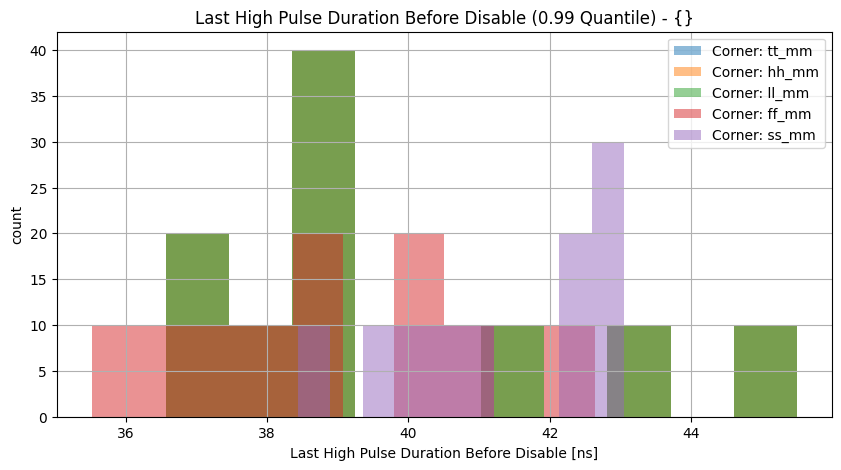
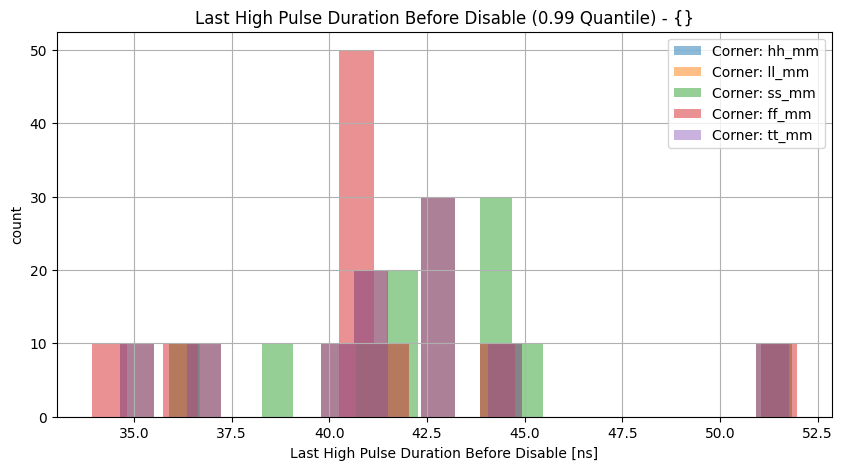
Jenkins update

diff --git a/riosc/riosc/Readme.md b/riosc/riosc/Readme.md
@@ -1,4 +1,4 @@
-24.11.2022, 20:10:37
+24.11.2022, 21:41:03
 
 # Ring Oscillator
 
@@ -32,9 +32,9 @@ LVS-state: Netlists match uniquely.<br>
 
 | Parameter | Min (Spec. / Sim.) |      | Max (Sim. / Spec.) | Unit | Checks (total/pass/fail/NaN) | Comment |
 | :-------- | -----------------: | :--: | :----------------- | :--- | :--------------------------- | ------- |
-| High Duration | 10.0 / 35.524 | <svg height="20" width="150"><polyline points="3.0,3,3.0,17,147.0,17,147.0,3" style="fill:none;stroke:gray;stroke-width:1" /><polyline points="75.0,10.0,75.0,17" style="fill:none;stroke:gray;stroke-width:1" /><polyline points="43.8384,10.0,59.793600000000005,10.0" style="stroke:green;stroke-width:2" /><circle cx="43.8384" cy="10.0" r="3" style="fill:green;stroke:green;stroke-width:0" /><circle cx="59.793600000000005" cy="10.0" r="3" style="fill:green;stroke:green;stroke-width:0" /></svg> | 45.496 / 100.0 | ns | 500/100.0%/0.0%/0.0% | Last period before oscillator disable |
-| Period Duration | 20.0 / 74.468 | <svg height="20" width="150"><polyline points="3.0,3,3.0,17,147.0,17,147.0,3" style="fill:none;stroke:gray;stroke-width:1" /><polyline points="75.0,10.0,75.0,17" style="fill:none;stroke:gray;stroke-width:1" /><polyline points="46.57432,10.0,61.828632000000006,10.0" style="stroke:green;stroke-width:2" /><circle cx="46.57432" cy="10.0" r="3" style="fill:green;stroke:green;stroke-width:0" /><circle cx="61.828632000000006" cy="10.0" r="3" style="fill:green;stroke:green;stroke-width:0" /></svg> | 93.536 / 200.0 | ns | 500/100.0%/0.0%/0.0% | First period after oscillator enable |
-| Duty-Cycle | 40 / 46.208 | <svg height="20" width="150"><polyline points="3.0,3,3.0,17,147.0,17,147.0,3" style="fill:none;stroke:gray;stroke-width:1" /><polyline points="75.0,10.0,75.0,17" style="fill:none;stroke:gray;stroke-width:1" /><polyline points="47.696808,10.0,74.00942400000001,10.0" style="stroke:green;stroke-width:2" /><circle cx="47.696808" cy="10.0" r="3" style="fill:green;stroke:green;stroke-width:0" /><circle cx="74.00942400000001" cy="10.0" r="3" style="fill:green;stroke:green;stroke-width:0" /></svg> | 49.862 / 60 | % | 500/100.0%/0.0%/0.0% | First period after oscillator enable |
+| High Duration | 10.0 / 33.927 | <svg height="20" width="150"><polyline points="3.0,3,3.0,17,147.0,17,147.0,3" style="fill:none;stroke:gray;stroke-width:1" /><polyline points="75.0,10.0,75.0,17" style="fill:none;stroke:gray;stroke-width:1" /><polyline points="41.28320000000001,10.0,70.1408,10.0" style="stroke:green;stroke-width:2" /><circle cx="41.28320000000001" cy="10.0" r="3" style="fill:green;stroke:green;stroke-width:0" /><circle cx="70.1408" cy="10.0" r="3" style="fill:green;stroke:green;stroke-width:0" /></svg> | 51.963 / 100.0 | ns | 500/100.0%/0.0%/0.0% | Last period before oscillator disable |
+| Period Duration | 20.0 / 72.511 | <svg height="20" width="150"><polyline points="3.0,3,3.0,17,147.0,17,147.0,3" style="fill:none;stroke:gray;stroke-width:1" /><polyline points="75.0,10.0,75.0,17" style="fill:none;stroke:gray;stroke-width:1" /><polyline points="45.008784,10.0,72.65512000000001,10.0" style="stroke:green;stroke-width:2" /><circle cx="45.008784" cy="10.0" r="3" style="fill:green;stroke:green;stroke-width:0" /><circle cx="72.65512000000001" cy="10.0" r="3" style="fill:green;stroke:green;stroke-width:0" /></svg> | 107.069 / 200.0 | ns | 500/100.0%/0.0%/0.0% | First period after oscillator enable |
+| Duty-Cycle | 40 / 46.229 | <svg height="20" width="150"><polyline points="3.0,3,3.0,17,147.0,17,147.0,3" style="fill:none;stroke:gray;stroke-width:1" /><polyline points="75.0,10.0,75.0,17" style="fill:none;stroke:gray;stroke-width:1" /><polyline points="47.85175200000001,10.0,81.85425599999999,10.0" style="stroke:green;stroke-width:2" /><circle cx="47.85175200000001" cy="10.0" r="3" style="fill:green;stroke:green;stroke-width:0" /><circle cx="81.85425599999999" cy="10.0" r="3" style="fill:green;stroke:green;stroke-width:0" /></svg> | 50.952 / 60 | % | 500/100.0%/0.0%/0.0% | First period after oscillator enable |
 
 <br>
 
@@ -54,9 +54,9 @@ LVS-state: Netlists match uniquely.<br>
 
 | Parameter | Min (Spec. / Sim.) |      | Max (Sim. / Spec.) | Unit | Checks (total/pass/fail/NaN) | Comment |
 | :-------- | -----------------: | :--: | :----------------- | :--- | :--------------------------- | ------- |
-| High Duration | 10.0 / 48.332 | <svg height="20" width="150"><polyline points="3.0,3,3.0,17,147.0,17,147.0,3" style="fill:none;stroke:gray;stroke-width:1" /><polyline points="75.0,10.0,75.0,17" style="fill:none;stroke:gray;stroke-width:1" /><polyline points="64.3312,10.0,83.8608,10.0" style="stroke:green;stroke-width:2" /><circle cx="64.3312" cy="10.0" r="3" style="fill:green;stroke:green;stroke-width:0" /><circle cx="83.8608" cy="10.0" r="3" style="fill:green;stroke:green;stroke-width:0" /></svg> | 60.538 / 100.0 | ns | 500/100.0%/0.0%/0.0% | Last period before oscillator disable |
-| Period Duration | 20.0 / 100.347 | <svg height="20" width="150"><polyline points="3.0,3,3.0,17,147.0,17,147.0,3" style="fill:none;stroke:gray;stroke-width:1" /><polyline points="75.0,10.0,75.0,17" style="fill:none;stroke:gray;stroke-width:1" /><polyline points="67.27752000000001,10.0,87.49008,10.0" style="stroke:green;stroke-width:2" /><circle cx="67.27752000000001" cy="10.0" r="3" style="fill:green;stroke:green;stroke-width:0" /><circle cx="87.49008" cy="10.0" r="3" style="fill:green;stroke:green;stroke-width:0" /></svg> | 125.613 / 200.0 | ns | 500/100.0%/0.0%/0.0% | First period after oscillator enable |
-| Duty-Cycle | 40 / 46.474 | <svg height="20" width="150"><polyline points="3.0,3,3.0,17,147.0,17,147.0,3" style="fill:none;stroke:gray;stroke-width:1" /><polyline points="75.0,10.0,75.0,17" style="fill:none;stroke:gray;stroke-width:1" /><polyline points="49.610927999999994,10.0,76.31961600000002,10.0" style="stroke:green;stroke-width:2" /><circle cx="49.610927999999994" cy="10.0" r="3" style="fill:green;stroke:green;stroke-width:0" /><circle cx="76.31961600000002" cy="10.0" r="3" style="fill:green;stroke:green;stroke-width:0" /></svg> | 50.183 / 60 | % | 500/100.0%/0.0%/0.0% | First period after oscillator enable |
+| High Duration | 10.0 / 44.647 | <svg height="20" width="150"><polyline points="3.0,3,3.0,17,147.0,17,147.0,3" style="fill:none;stroke:gray;stroke-width:1" /><polyline points="75.0,10.0,75.0,17" style="fill:none;stroke:gray;stroke-width:1" /><polyline points="58.43520000000001,10.0,84.07360000000001,10.0" style="stroke:green;stroke-width:2" /><circle cx="58.43520000000001" cy="10.0" r="3" style="fill:green;stroke:green;stroke-width:0" /><circle cx="84.07360000000001" cy="10.0" r="3" style="fill:green;stroke:green;stroke-width:0" /></svg> | 60.671 / 100.0 | ns | 500/100.0%/0.0%/0.0% | Last period before oscillator disable |
+| Period Duration | 20.0 / 91.752 | <svg height="20" width="150"><polyline points="3.0,3,3.0,17,147.0,17,147.0,3" style="fill:none;stroke:gray;stroke-width:1" /><polyline points="75.0,10.0,75.0,17" style="fill:none;stroke:gray;stroke-width:1" /><polyline points="60.401976000000005,10.0,87.69480000000001,10.0" style="stroke:green;stroke-width:2" /><circle cx="60.401976000000005" cy="10.0" r="3" style="fill:green;stroke:green;stroke-width:0" /><circle cx="87.69480000000001" cy="10.0" r="3" style="fill:green;stroke:green;stroke-width:0" /></svg> | 125.869 / 200.0 | ns | 500/100.0%/0.0%/0.0% | First period after oscillator enable |
+| Duty-Cycle | 40 / 43.896 | <svg height="20" width="150"><polyline points="3.0,3,3.0,17,147.0,17,147.0,3" style="fill:none;stroke:gray;stroke-width:1" /><polyline points="75.0,10.0,75.0,17" style="fill:none;stroke:gray;stroke-width:1" /><polyline points="31.049687999999986,10.0,87.930696,10.0" style="stroke:green;stroke-width:2" /><circle cx="31.049687999999986" cy="10.0" r="3" style="fill:green;stroke:green;stroke-width:0" /><circle cx="87.930696" cy="10.0" r="3" style="fill:green;stroke:green;stroke-width:0" /></svg> | 51.796 / 60 | % | 500/100.0%/0.0%/0.0% | First period after oscillator enable |
 
 <br>
 

diff --git a/riosc/riosc/specReport.md b/riosc/riosc/specReport.md
@@ -14,9 +14,9 @@
 
 | Parameter | Min (Spec. / Sim.) |      | Max (Sim. / Spec.) | Unit | Checks (total/pass/fail/NaN) | Comment |
 | :-------- | -----------------: | :--: | :----------------- | :--- | :--------------------------- | ------- |
-| High Duration | 10.0 / 35.524 | <svg height="20" width="150"><polyline points="3.0,3,3.0,17,147.0,17,147.0,3" style="fill:none;stroke:gray;stroke-width:1" /><polyline points="75.0,10.0,75.0,17" style="fill:none;stroke:gray;stroke-width:1" /><polyline points="43.8384,10.0,59.793600000000005,10.0" style="stroke:green;stroke-width:2" /><circle cx="43.8384" cy="10.0" r="3" style="fill:green;stroke:green;stroke-width:0" /><circle cx="59.793600000000005" cy="10.0" r="3" style="fill:green;stroke:green;stroke-width:0" /></svg> | 45.496 / 100.0 | ns | 500/100.0%/0.0%/0.0% | Last period before oscillator disable |
-| Period Duration | 20.0 / 74.468 | <svg height="20" width="150"><polyline points="3.0,3,3.0,17,147.0,17,147.0,3" style="fill:none;stroke:gray;stroke-width:1" /><polyline points="75.0,10.0,75.0,17" style="fill:none;stroke:gray;stroke-width:1" /><polyline points="46.57432,10.0,61.828632000000006,10.0" style="stroke:green;stroke-width:2" /><circle cx="46.57432" cy="10.0" r="3" style="fill:green;stroke:green;stroke-width:0" /><circle cx="61.828632000000006" cy="10.0" r="3" style="fill:green;stroke:green;stroke-width:0" /></svg> | 93.536 / 200.0 | ns | 500/100.0%/0.0%/0.0% | First period after oscillator enable |
-| Duty-Cycle | 40 / 46.208 | <svg height="20" width="150"><polyline points="3.0,3,3.0,17,147.0,17,147.0,3" style="fill:none;stroke:gray;stroke-width:1" /><polyline points="75.0,10.0,75.0,17" style="fill:none;stroke:gray;stroke-width:1" /><polyline points="47.696808,10.0,74.00942400000001,10.0" style="stroke:green;stroke-width:2" /><circle cx="47.696808" cy="10.0" r="3" style="fill:green;stroke:green;stroke-width:0" /><circle cx="74.00942400000001" cy="10.0" r="3" style="fill:green;stroke:green;stroke-width:0" /></svg> | 49.862 / 60 | % | 500/100.0%/0.0%/0.0% | First period after oscillator enable |
+| High Duration | 10.0 / 33.927 | <svg height="20" width="150"><polyline points="3.0,3,3.0,17,147.0,17,147.0,3" style="fill:none;stroke:gray;stroke-width:1" /><polyline points="75.0,10.0,75.0,17" style="fill:none;stroke:gray;stroke-width:1" /><polyline points="41.28320000000001,10.0,70.1408,10.0" style="stroke:green;stroke-width:2" /><circle cx="41.28320000000001" cy="10.0" r="3" style="fill:green;stroke:green;stroke-width:0" /><circle cx="70.1408" cy="10.0" r="3" style="fill:green;stroke:green;stroke-width:0" /></svg> | 51.963 / 100.0 | ns | 500/100.0%/0.0%/0.0% | Last period before oscillator disable |
+| Period Duration | 20.0 / 72.511 | <svg height="20" width="150"><polyline points="3.0,3,3.0,17,147.0,17,147.0,3" style="fill:none;stroke:gray;stroke-width:1" /><polyline points="75.0,10.0,75.0,17" style="fill:none;stroke:gray;stroke-width:1" /><polyline points="45.008784,10.0,72.65512000000001,10.0" style="stroke:green;stroke-width:2" /><circle cx="45.008784" cy="10.0" r="3" style="fill:green;stroke:green;stroke-width:0" /><circle cx="72.65512000000001" cy="10.0" r="3" style="fill:green;stroke:green;stroke-width:0" /></svg> | 107.069 / 200.0 | ns | 500/100.0%/0.0%/0.0% | First period after oscillator enable |
+| Duty-Cycle | 40 / 46.229 | <svg height="20" width="150"><polyline points="3.0,3,3.0,17,147.0,17,147.0,3" style="fill:none;stroke:gray;stroke-width:1" /><polyline points="75.0,10.0,75.0,17" style="fill:none;stroke:gray;stroke-width:1" /><polyline points="47.85175200000001,10.0,81.85425599999999,10.0" style="stroke:green;stroke-width:2" /><circle cx="47.85175200000001" cy="10.0" r="3" style="fill:green;stroke:green;stroke-width:0" /><circle cx="81.85425599999999" cy="10.0" r="3" style="fill:green;stroke:green;stroke-width:0" /></svg> | 50.952 / 60 | % | 500/100.0%/0.0%/0.0% | First period after oscillator enable |
 
 <br>
 
@@ -36,9 +36,9 @@
 
 | Parameter | Min (Spec. / Sim.) |      | Max (Sim. / Spec.) | Unit | Checks (total/pass/fail/NaN) | Comment |
 | :-------- | -----------------: | :--: | :----------------- | :--- | :--------------------------- | ------- |
-| High Duration | 10.0 / 48.332 | <svg height="20" width="150"><polyline points="3.0,3,3.0,17,147.0,17,147.0,3" style="fill:none;stroke:gray;stroke-width:1" /><polyline points="75.0,10.0,75.0,17" style="fill:none;stroke:gray;stroke-width:1" /><polyline points="64.3312,10.0,83.8608,10.0" style="stroke:green;stroke-width:2" /><circle cx="64.3312" cy="10.0" r="3" style="fill:green;stroke:green;stroke-width:0" /><circle cx="83.8608" cy="10.0" r="3" style="fill:green;stroke:green;stroke-width:0" /></svg> | 60.538 / 100.0 | ns | 500/100.0%/0.0%/0.0% | Last period before oscillator disable |
-| Period Duration | 20.0 / 100.347 | <svg height="20" width="150"><polyline points="3.0,3,3.0,17,147.0,17,147.0,3" style="fill:none;stroke:gray;stroke-width:1" /><polyline points="75.0,10.0,75.0,17" style="fill:none;stroke:gray;stroke-width:1" /><polyline points="67.27752000000001,10.0,87.49008,10.0" style="stroke:green;stroke-width:2" /><circle cx="67.27752000000001" cy="10.0" r="3" style="fill:green;stroke:green;stroke-width:0" /><circle cx="87.49008" cy="10.0" r="3" style="fill:green;stroke:green;stroke-width:0" /></svg> | 125.613 / 200.0 | ns | 500/100.0%/0.0%/0.0% | First period after oscillator enable |
-| Duty-Cycle | 40 / 46.474 | <svg height="20" width="150"><polyline points="3.0,3,3.0,17,147.0,17,147.0,3" style="fill:none;stroke:gray;stroke-width:1" /><polyline points="75.0,10.0,75.0,17" style="fill:none;stroke:gray;stroke-width:1" /><polyline points="49.610927999999994,10.0,76.31961600000002,10.0" style="stroke:green;stroke-width:2" /><circle cx="49.610927999999994" cy="10.0" r="3" style="fill:green;stroke:green;stroke-width:0" /><circle cx="76.31961600000002" cy="10.0" r="3" style="fill:green;stroke:green;stroke-width:0" /></svg> | 50.183 / 60 | % | 500/100.0%/0.0%/0.0% | First period after oscillator enable |
+| High Duration | 10.0 / 44.647 | <svg height="20" width="150"><polyline points="3.0,3,3.0,17,147.0,17,147.0,3" style="fill:none;stroke:gray;stroke-width:1" /><polyline points="75.0,10.0,75.0,17" style="fill:none;stroke:gray;stroke-width:1" /><polyline points="58.43520000000001,10.0,84.07360000000001,10.0" style="stroke:green;stroke-width:2" /><circle cx="58.43520000000001" cy="10.0" r="3" style="fill:green;stroke:green;stroke-width:0" /><circle cx="84.07360000000001" cy="10.0" r="3" style="fill:green;stroke:green;stroke-width:0" /></svg> | 60.671 / 100.0 | ns | 500/100.0%/0.0%/0.0% | Last period before oscillator disable |
+| Period Duration | 20.0 / 91.752 | <svg height="20" width="150"><polyline points="3.0,3,3.0,17,147.0,17,147.0,3" style="fill:none;stroke:gray;stroke-width:1" /><polyline points="75.0,10.0,75.0,17" style="fill:none;stroke:gray;stroke-width:1" /><polyline points="60.401976000000005,10.0,87.69480000000001,10.0" style="stroke:green;stroke-width:2" /><circle cx="60.401976000000005" cy="10.0" r="3" style="fill:green;stroke:green;stroke-width:0" /><circle cx="87.69480000000001" cy="10.0" r="3" style="fill:green;stroke:green;stroke-width:0" /></svg> | 125.869 / 200.0 | ns | 500/100.0%/0.0%/0.0% | First period after oscillator enable |
+| Duty-Cycle | 40 / 43.896 | <svg height="20" width="150"><polyline points="3.0,3,3.0,17,147.0,17,147.0,3" style="fill:none;stroke:gray;stroke-width:1" /><polyline points="75.0,10.0,75.0,17" style="fill:none;stroke:gray;stroke-width:1" /><polyline points="31.049687999999986,10.0,87.930696,10.0" style="stroke:green;stroke-width:2" /><circle cx="31.049687999999986" cy="10.0" r="3" style="fill:green;stroke:green;stroke-width:0" /><circle cx="87.930696" cy="10.0" r="3" style="fill:green;stroke:green;stroke-width:0" /></svg> | 51.796 / 60 | % | 500/100.0%/0.0%/0.0% | First period after oscillator enable |
 
 <br>
 

diff --git a/bmbg/bmbgota/Readme.md b/bmbg/bmbgota/Readme.md
@@ -1,4 +1,4 @@
-24.11.2022, 20:10:37
+24.11.2022, 21:41:03
 
 # Beta-Multiplier Bandgap OTA
 

diff --git a/bmbg/bmbg/Readme.md b/bmbg/bmbg/Readme.md
@@ -1,4 +1,4 @@
-24.11.2022, 20:10:37
+24.11.2022, 21:41:03
 
 # Beta-Multiplier Bandgap
 

diff --git a/vthref/vthref/Readme.md b/vthref/vthref/Readme.md
@@ -1,4 +1,4 @@
-24.11.2022, 20:10:37
+24.11.2022, 21:41:03
 
 # Vth Current Reference
 

diff --git a/ldo/ldo/Readme.md b/ldo/ldo/Readme.md
@@ -1,4 +1,4 @@
-24.11.2022, 20:10:37
+24.11.2022, 21:41:03
 
 # 1.8 V LDO
 

diff --git a/ldo/ldoota/Readme.md b/ldo/ldoota/Readme.md
@@ -1,4 +1,4 @@
-24.11.2022, 20:10:37
+24.11.2022, 21:41:03
 
 # LDO OP
 
